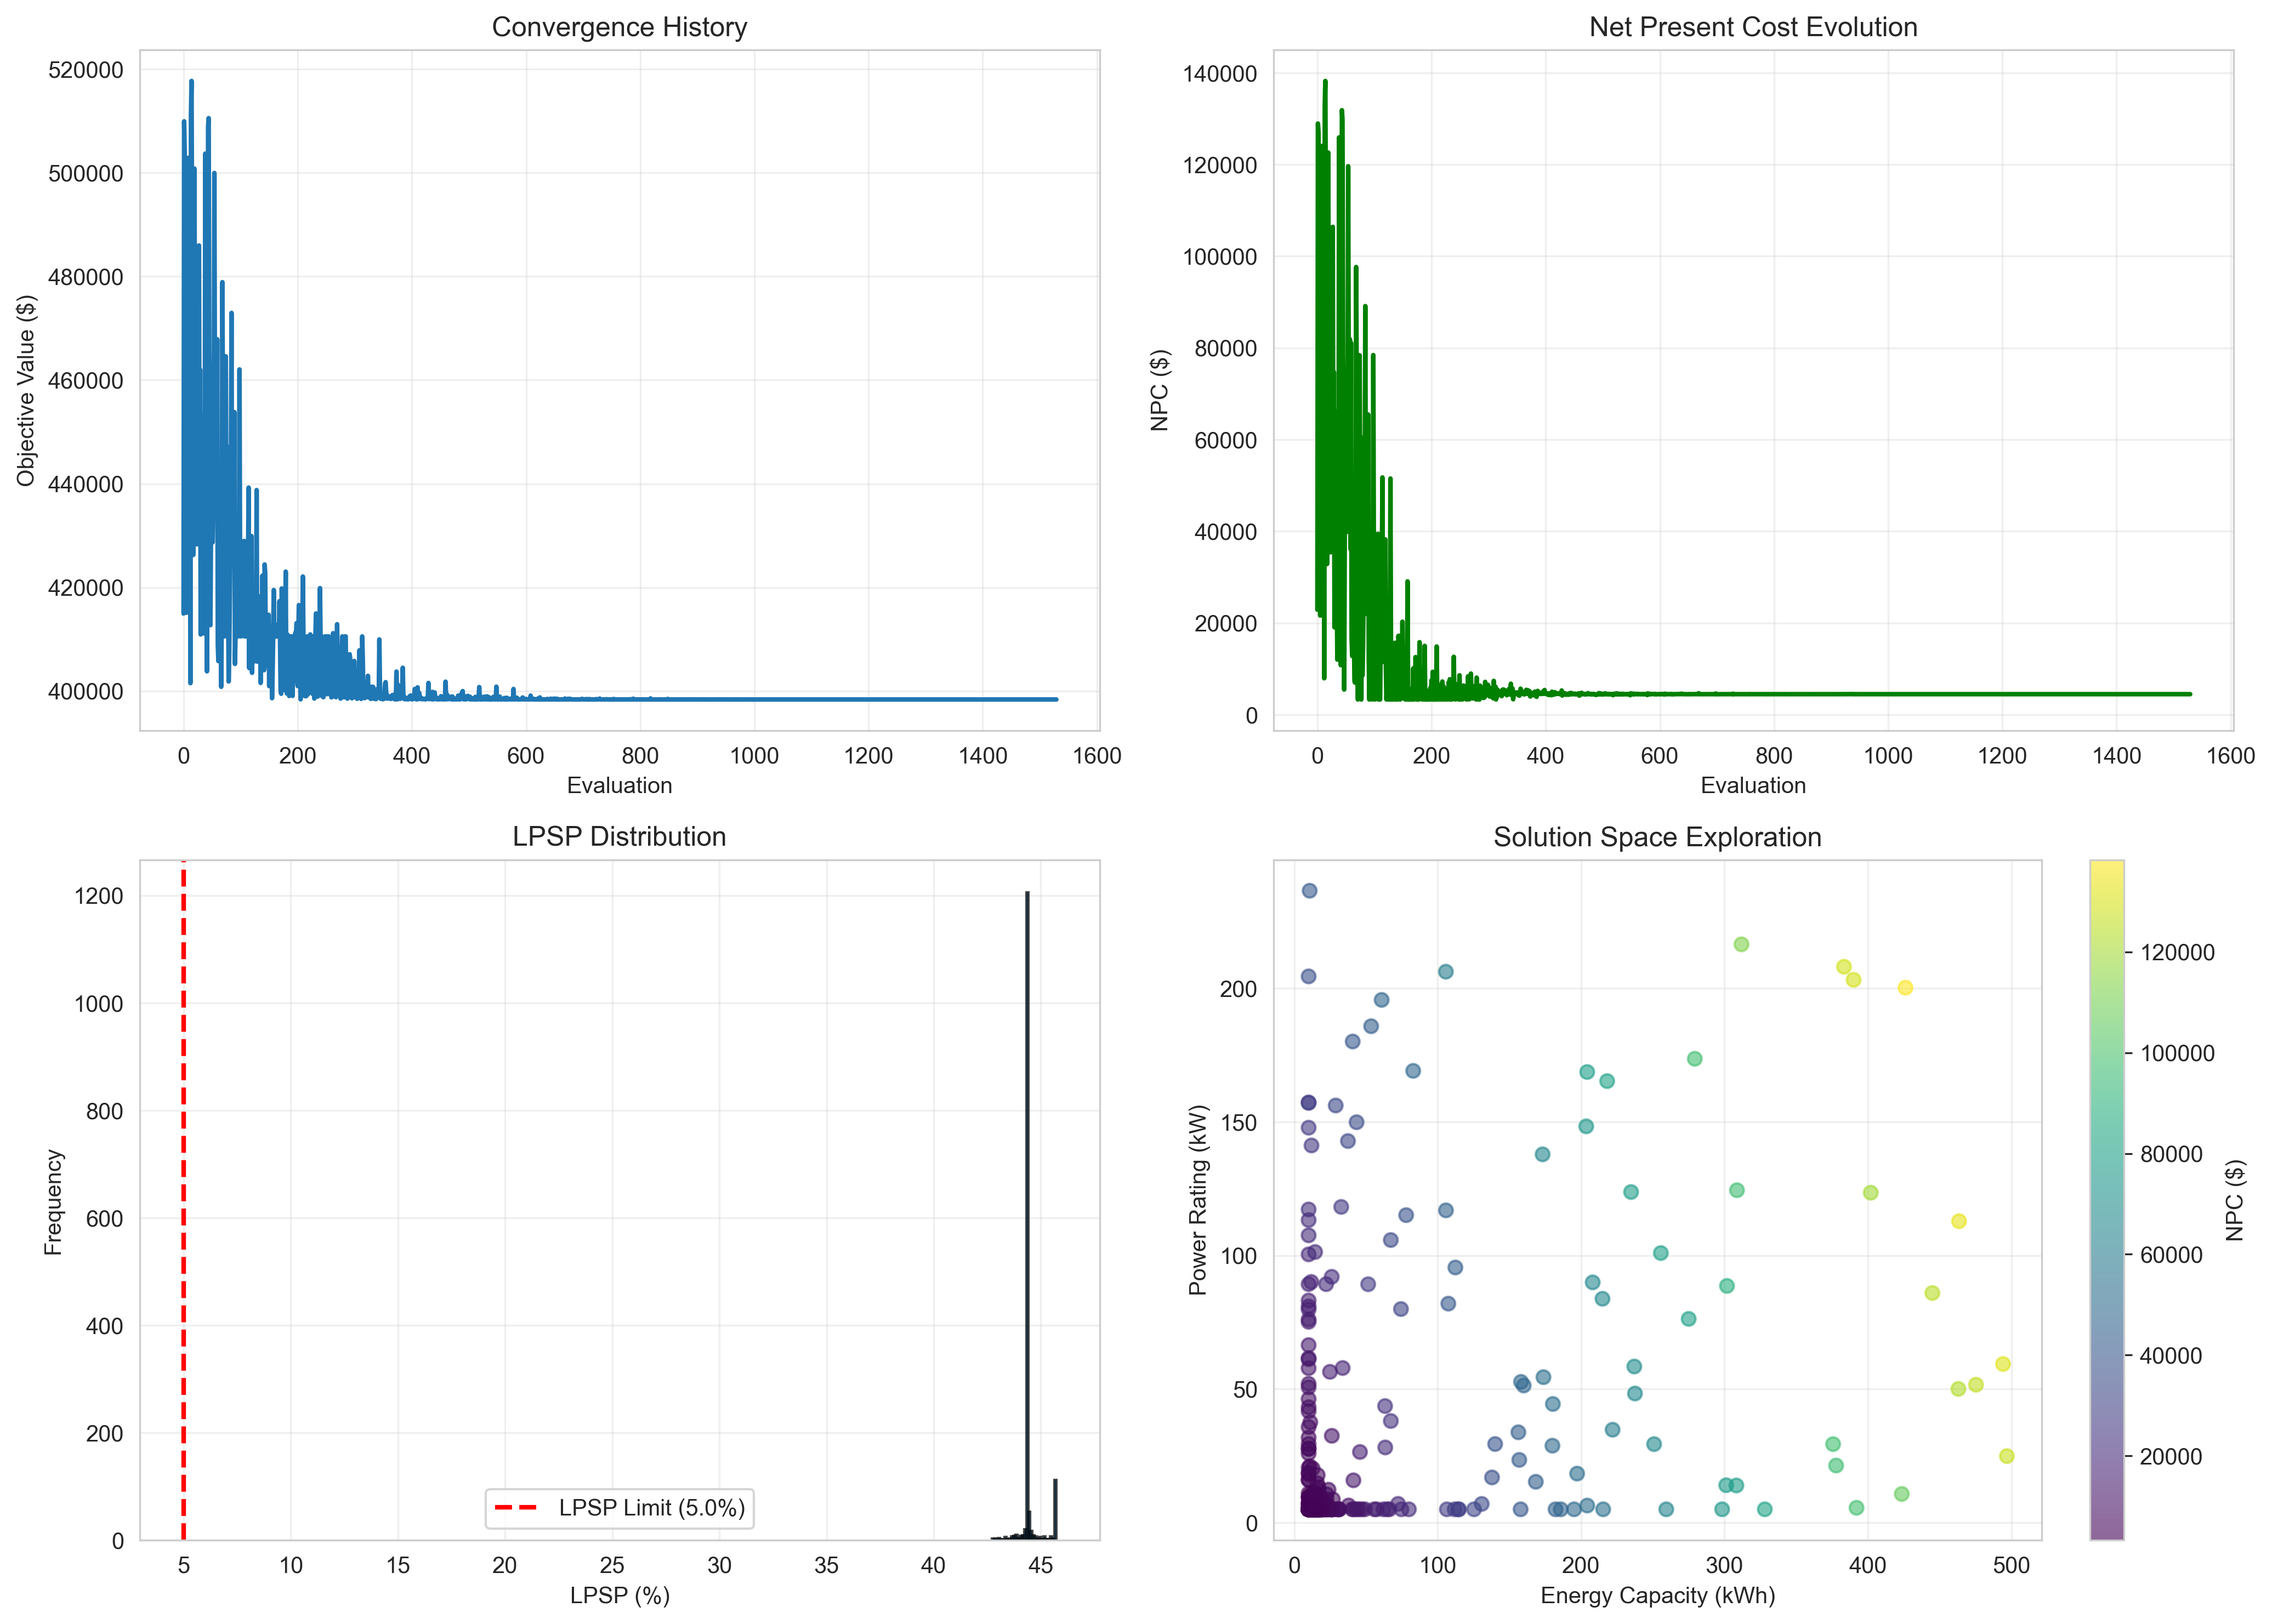
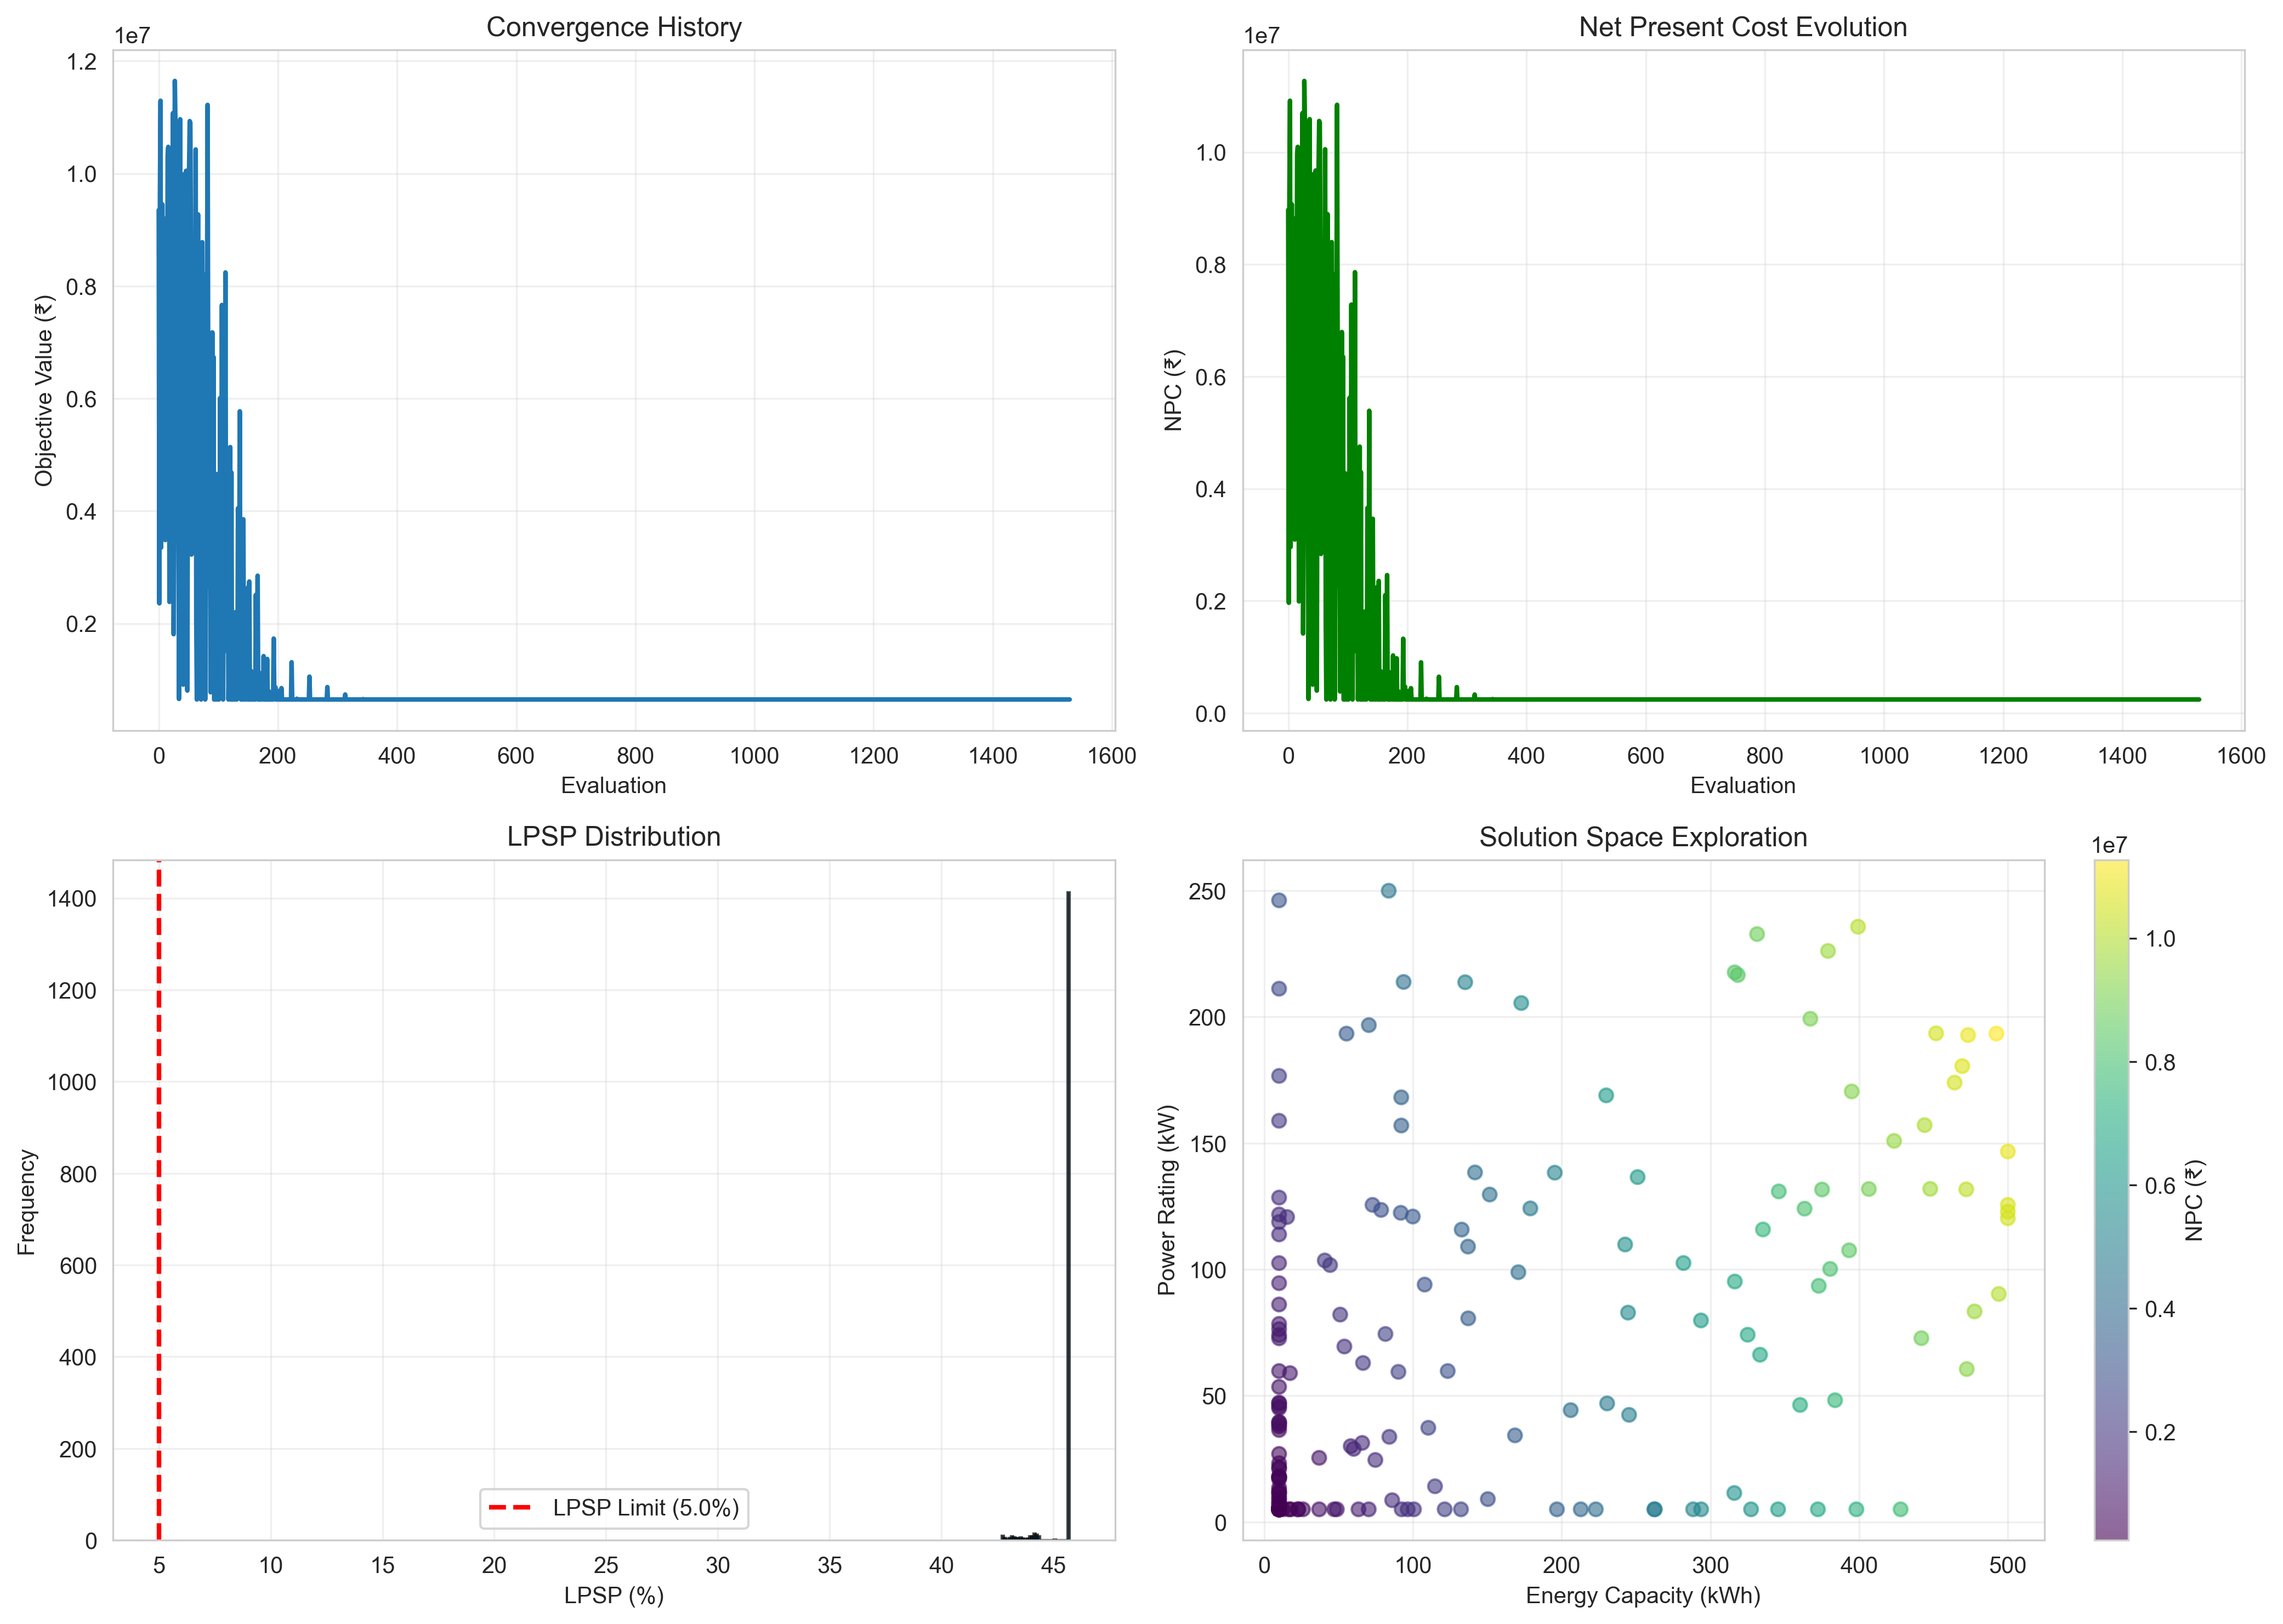
third

diff --git a/src/utils.py b/src/utils.py
@@ -149,14 +149,14 @@ def plot_optimization_history(history: List[Dict], save_path: str = None):
     # Plot 1: Objective value over iterations
     axes[0, 0].plot(df['objective'], linewidth=2)
     axes[0, 0].set_xlabel('Evaluation')
-    axes[0, 0].set_ylabel('Objective Value ($)')
+    axes[0, 0].set_ylabel('Objective Value (₹)')
     axes[0, 0].set_title('Convergence History')
     axes[0, 0].grid(True, alpha=0.3)
     
     # Plot 2: NPC vs iterations
     axes[0, 1].plot(df['npc'], linewidth=2, color='green')
     axes[0, 1].set_xlabel('Evaluation')
-    axes[0, 1].set_ylabel('NPC ($)')
+    axes[0, 1].set_ylabel('NPC (₹)')
     axes[0, 1].set_title('Net Present Cost Evolution')
     axes[0, 1].grid(True, alpha=0.3)
     
@@ -177,7 +177,7 @@ def plot_optimization_history(history: List[Dict], save_path: str = None):
     axes[1, 1].set_xlabel('Energy Capacity (kWh)')
     axes[1, 1].set_ylabel('Power Rating (kW)')
     axes[1, 1].set_title('Solution Space Exploration')
-    plt.colorbar(scatter, ax=axes[1, 1], label='NPC ($)')
+    plt.colorbar(scatter, ax=axes[1, 1], label='NPC (₹)')
     axes[1, 1].grid(True, alpha=0.3)
     
     plt.tight_layout()
@@ -265,11 +265,11 @@ def calculate_metrics_summary(evaluation: Dict) -> pd.DataFrame:
     # Economic metrics
     data['Metric'].extend(['Capital Cost', 'Net Present Cost', 'Levelized Annual Cost'])
     data['Value'].extend([
-        f"${evaluation['costs']['total_capital_cost']:,.2f}",
-        f"${evaluation['economics']['npc']:,.2f}",
-        f"${evaluation['economics']['levelized_cost']:,.2f}"
+        f"₹{evaluation['costs']['total_capital_cost']:,.2f}",
+        f"₹{evaluation['economics']['npc']:,.2f}",
+        f"₹{evaluation['economics']['levelized_cost']:,.2f}"
     ])
-    data['Unit'].extend(['$', '$', '$/year'])
+    data['Unit'].extend(['₹', '₹', '$/year'])
     
     # Performance metrics
     perf = evaluation['performance']

diff --git a/src/optimizer.py b/src/optimizer.py
@@ -56,7 +56,7 @@ class BESSOptimizer:
             simulation_results: Results from simulation
             
         Returns:
-            Net Present Cost ($)
+            Net Present Cost (₹)
         """
         # Capital cost
         costs = calculate_battery_cost(energy_kwh, power_kw)
@@ -237,7 +237,7 @@ class BESSOptimizer:
                 print("="*60)
                 print(f"Optimal Energy Capacity: {xopt[0]:.2f} kWh")
                 print(f"Optimal Power Rating:   {xopt[1]:.2f} kW")
-                print(f"Optimal NPC:            ${fopt:,.2f}")
+                print(f"Optimal NPC:            ₹{fopt:,.2f}")
                 print(f"Total evaluations:      {self.eval_count}")
                 print("="*60 + "\n")
             
@@ -305,13 +305,13 @@ class BESSOptimizer:
         print("\nCosts:")
         for key, value in evaluation['costs'].items():
             if 'cost' not in key.lower() or value > 100:
-                print(f"  {key}: ${value:,.2f}")
+                print(f"  {key}: ₹{value:,.2f}")
             else:
-                print(f"  {key}: ${value:.2f}")
+                print(f"  {key}: ₹{value:.2f}")
         
         print("\nEconomics:")
         for key, value in evaluation['economics'].items():
-            print(f"  {key}: ${value:,.2f}")
+            print(f"  {key}: ₹{value:,.2f}")
         
         print("\nPerformance:")
         perf = evaluation['performance']

diff --git a/fix_currency_symbols.py b/fix_currency_symbols.py
@@ -1,0 +1,43 @@
+"""
+Quick script to replace all $ symbols with ₹ in the codebase
+"""
+
+import re
+
+files_to_update = [
+    r'main.py',
+    r'src\optimizer.py',
+    r'src\battery_model.py',
+    r'src\utils.py'
+]
+
+replacements = [
+    (r'\$\{', r'₹{'),  # ${variable} → ₹{variable}
+    (r'"\$"', r'"₹"'),  # "$" → "₹"
+    (r"'\$'", r"'₹'"),  # '$' → '₹'
+    (r'\(\$\)', r'(₹)'),  # ($) → (₹)
+]
+
+for file_path in files_to_update:
+    try:
+        with open(file_path, 'r', encoding='utf-8') as f:
+            content = f.read()
+        
+        original = content
+        for pattern, replacement in replacements:
+            content = re.sub(pattern, replacement, content)
+        
+        if content != original:
+            with open(file_path, 'w', encoding='utf-8') as f:
+                f.write(content)
+            print(f"✓ Updated {file_path}")
+        else:
+            print(f"  No changes needed in {file_path}")
+            
+    except FileNotFoundError:
+        print(f"✗ File not found: {file_path}")
+    except Exception as e:
+        print(f"✗ Error processing {file_path}: {e}")
+
+print("\n✓ Currency symbol update complete!")
+print("All $ symbols replaced with ₹")

diff --git a/main.py b/main.py
@@ -139,7 +139,7 @@ def main(args):
     print(f"\n✓ Optimization complete!")
     print(f"  Optimal Energy Capacity: {optimal_solution[0]:.2f} kWh")
     print(f"  Optimal Power Rating:    {optimal_solution[1]:.2f} kW")
-    print(f"  Optimal NPC:             ${optimal_cost:,.2f}")
+    print(f"  Optimal NPC:             ₹{optimal_cost:,.2f}")
     
     # ========================================================================
     # STAGE 4: DETAILED EVALUATION

diff --git a/src/battery_model.py b/src/battery_model.py
@@ -323,4 +323,4 @@ if __name__ == "__main__":
     costs = calculate_battery_cost(100, 50)
     print(f"\n\nCost Breakdown:")
     for key, value in costs.items():
-        print(f"  {key}: ${value:,.2f}")
+        print(f"  {key}: ₹{value:,.2f}")
